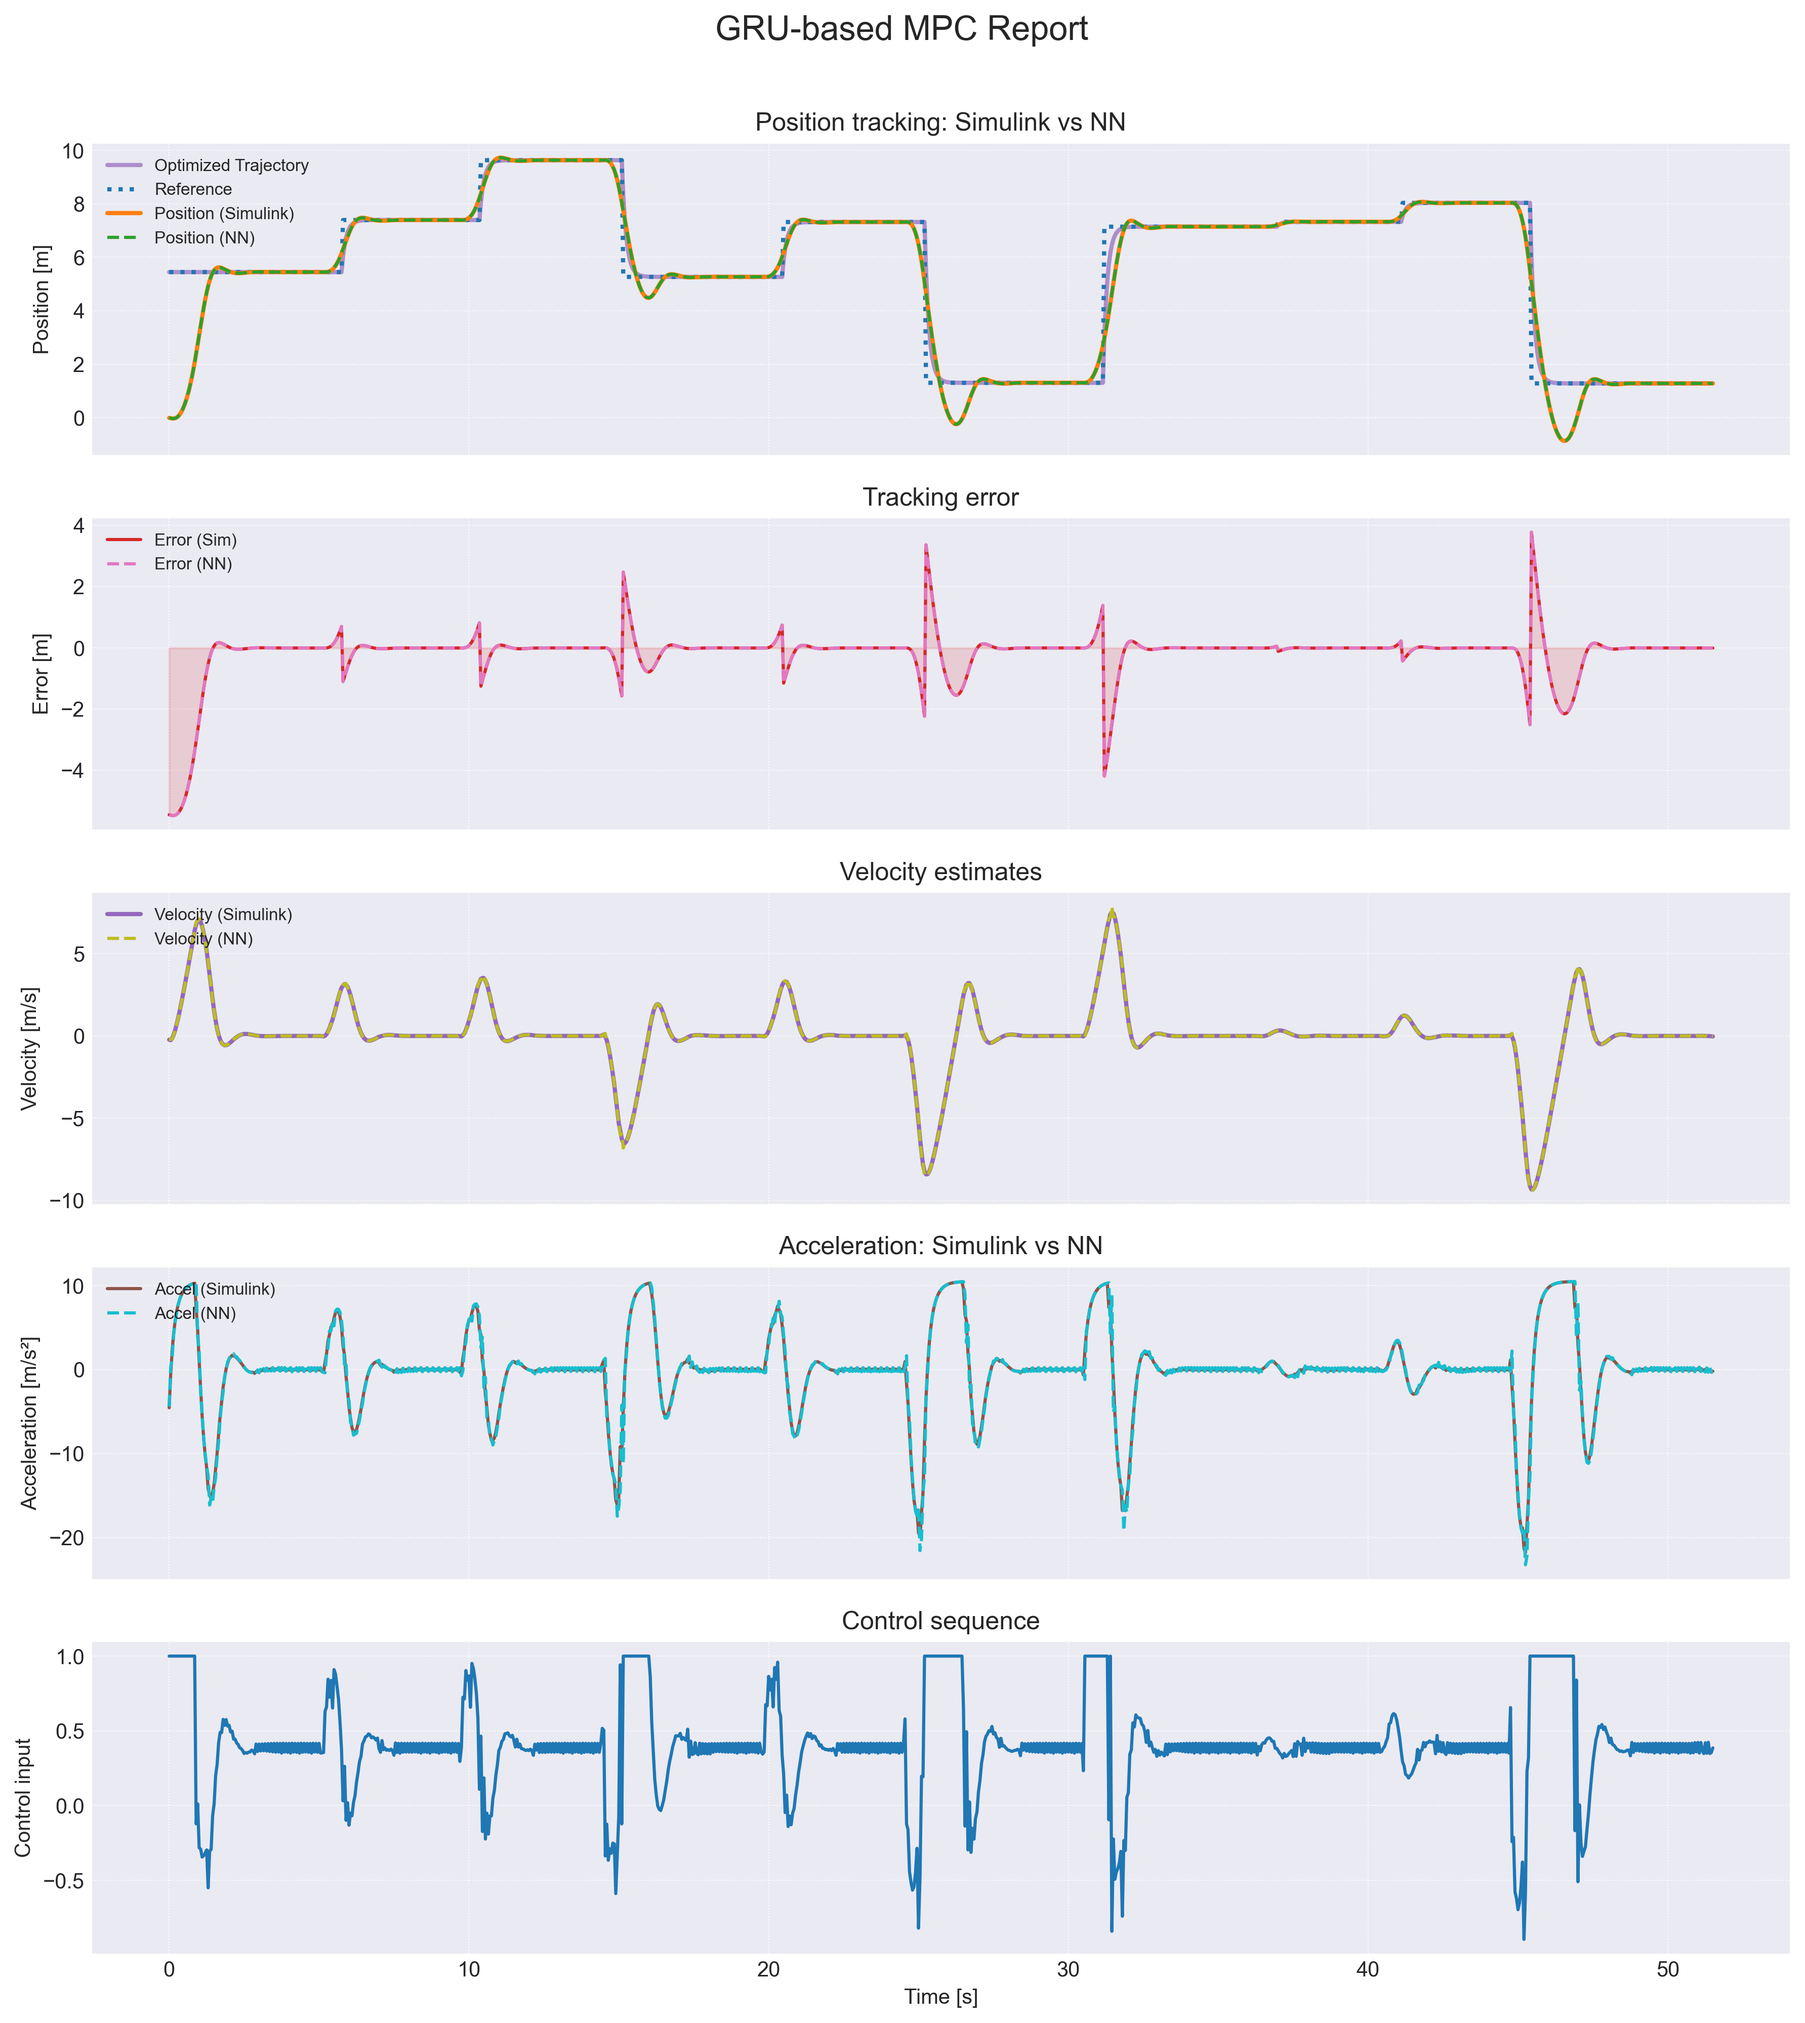
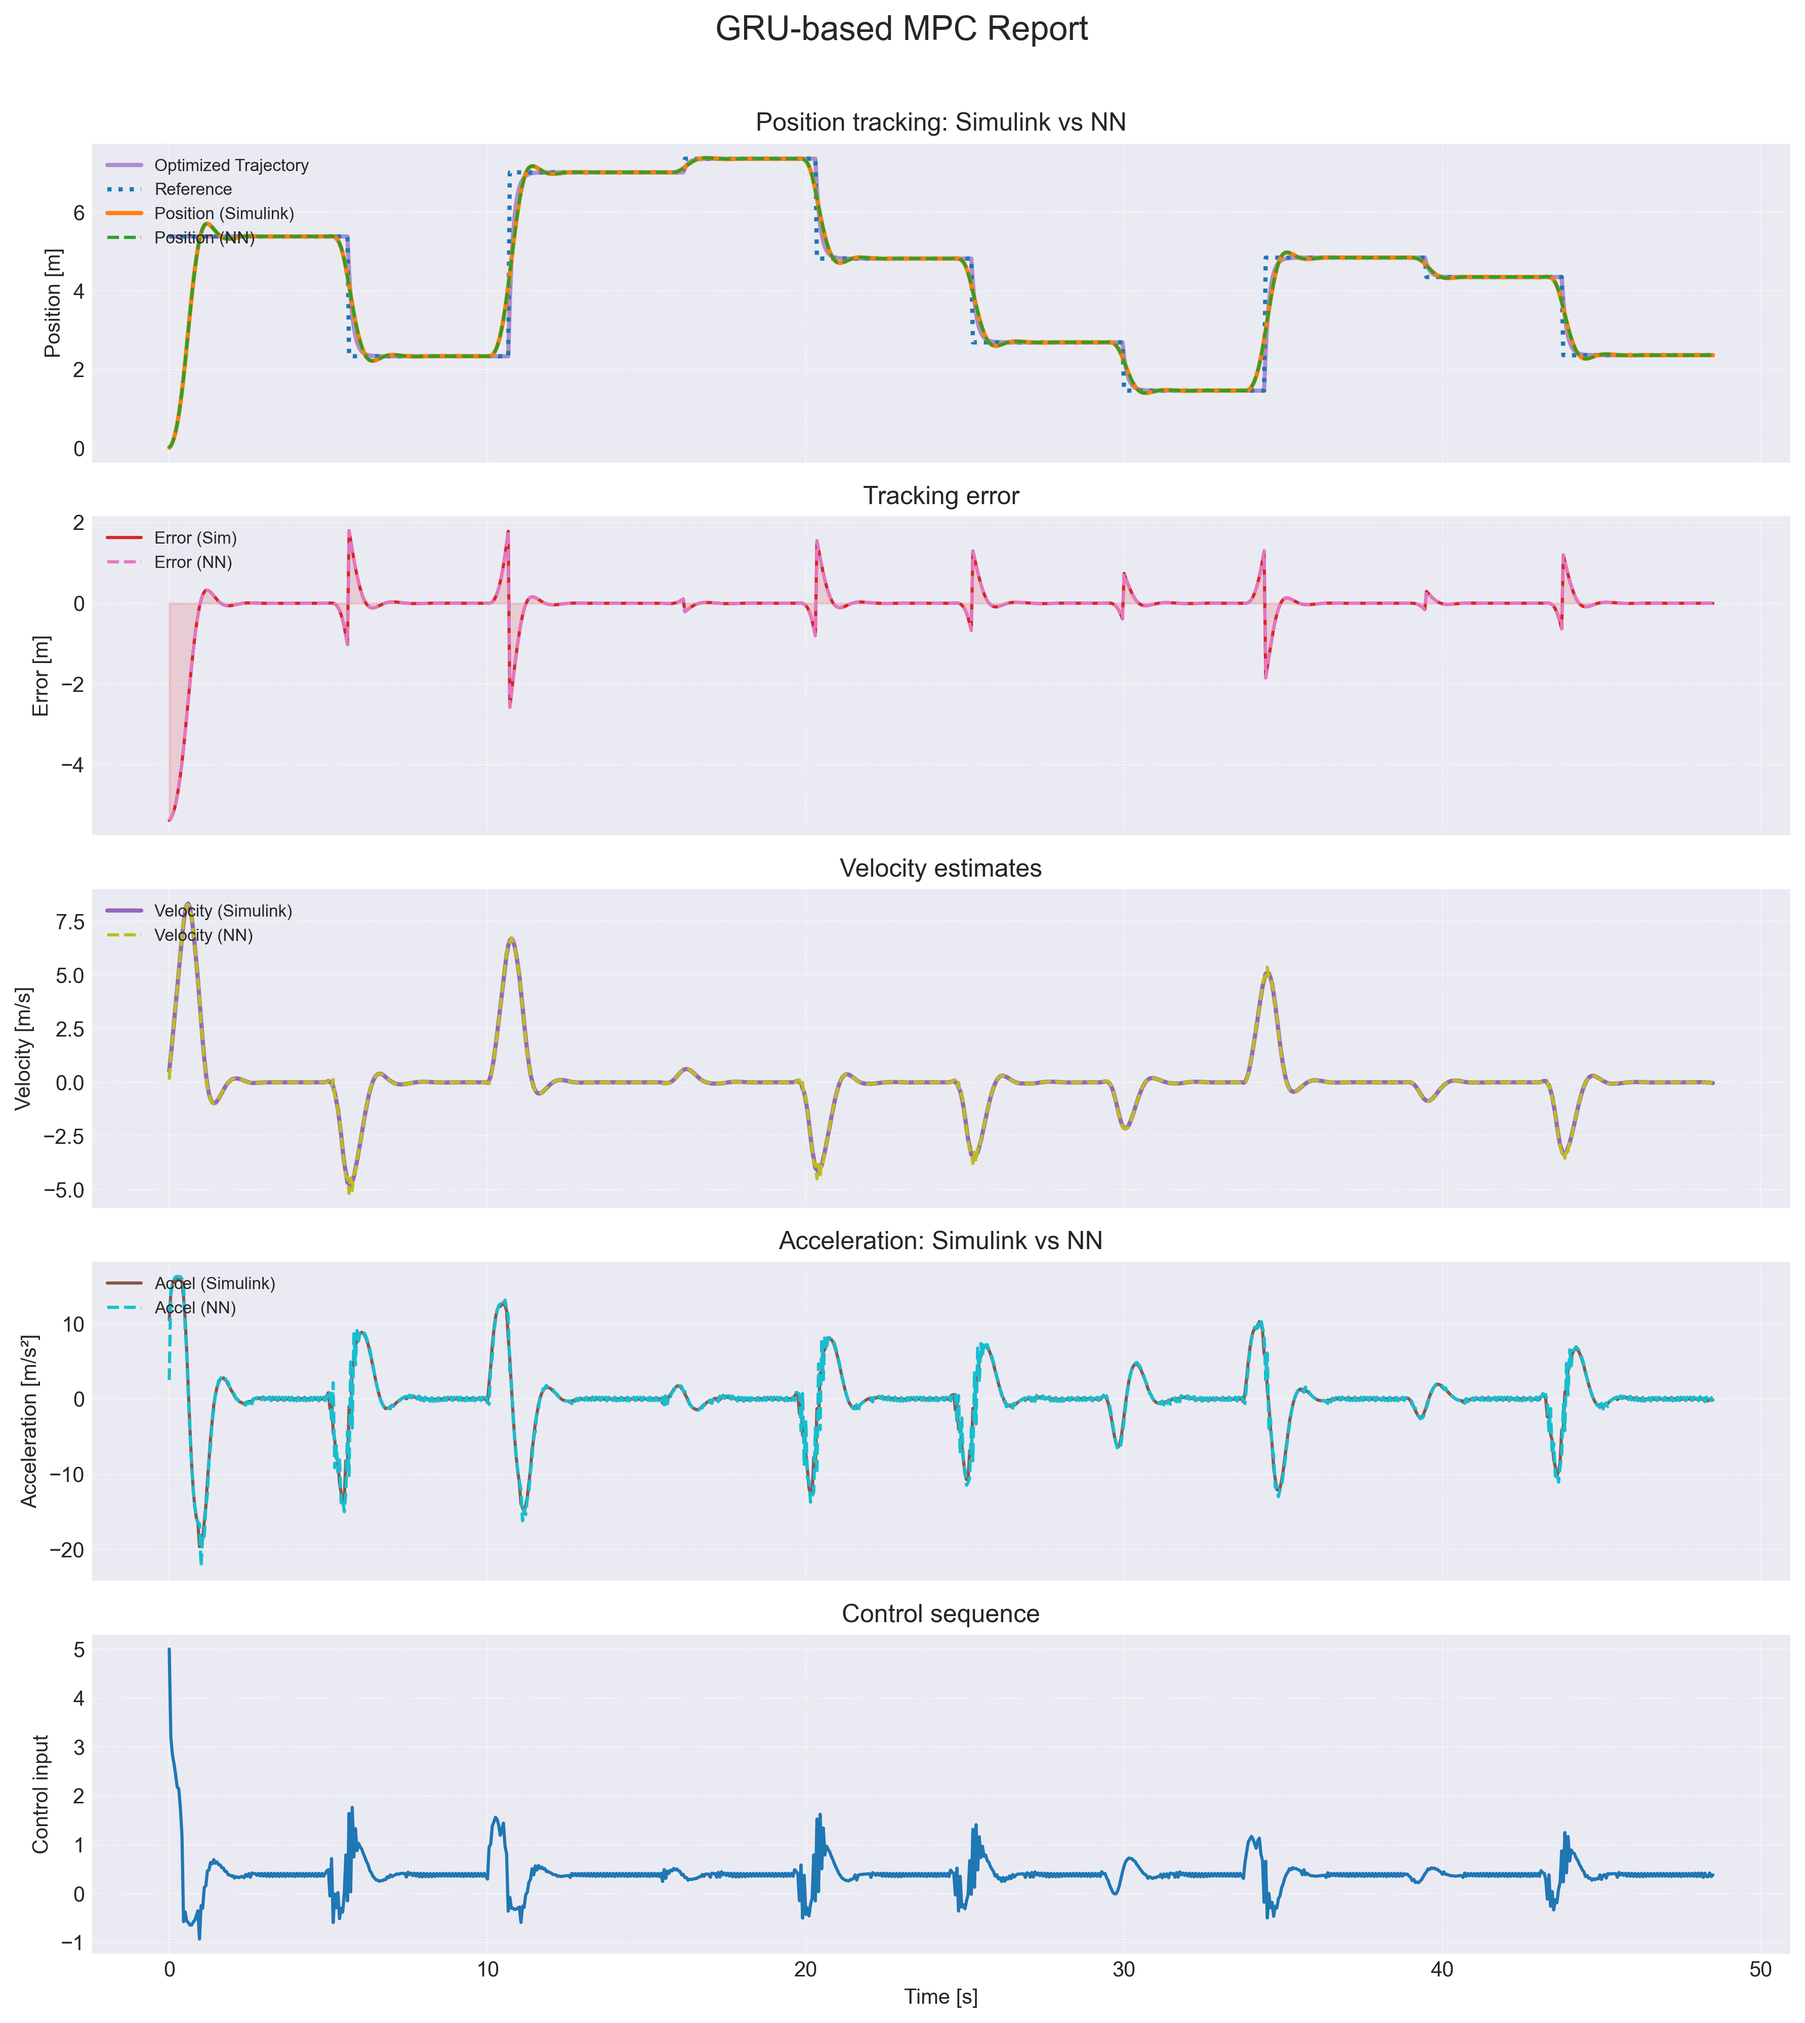
maj plot

diff --git a/src/dronecontrol/commande/base_mpc.py b/src/dronecontrol/commande/base_mpc.py
@@ -93,8 +93,6 @@ class MPC(ABC):
         """
         # Ensure inputs are on the model's device
         device = next(self.accel_model.parameters()).device
-        u = u
-        hk = hk
 
         # Predict accelerations
         with torch.set_grad_enabled(u.requires_grad):
